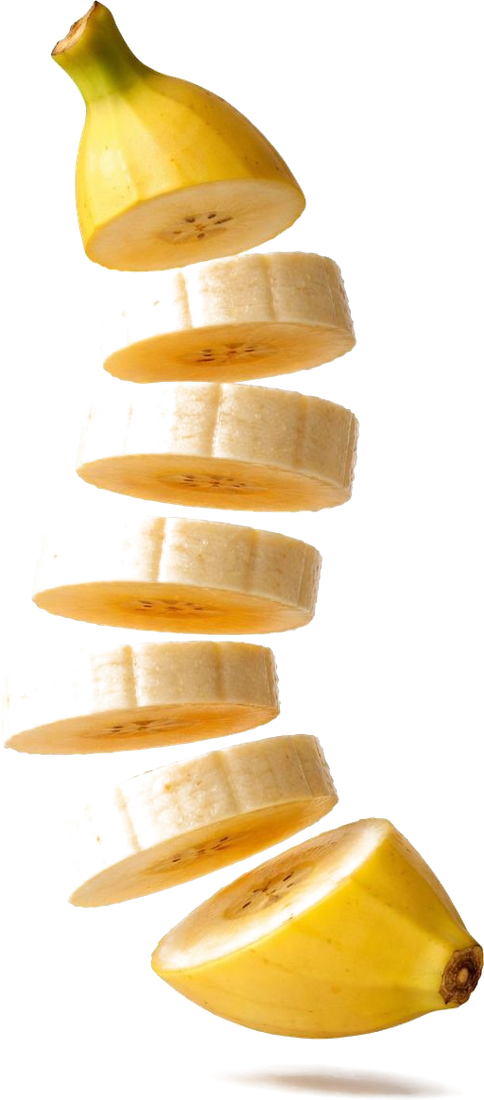
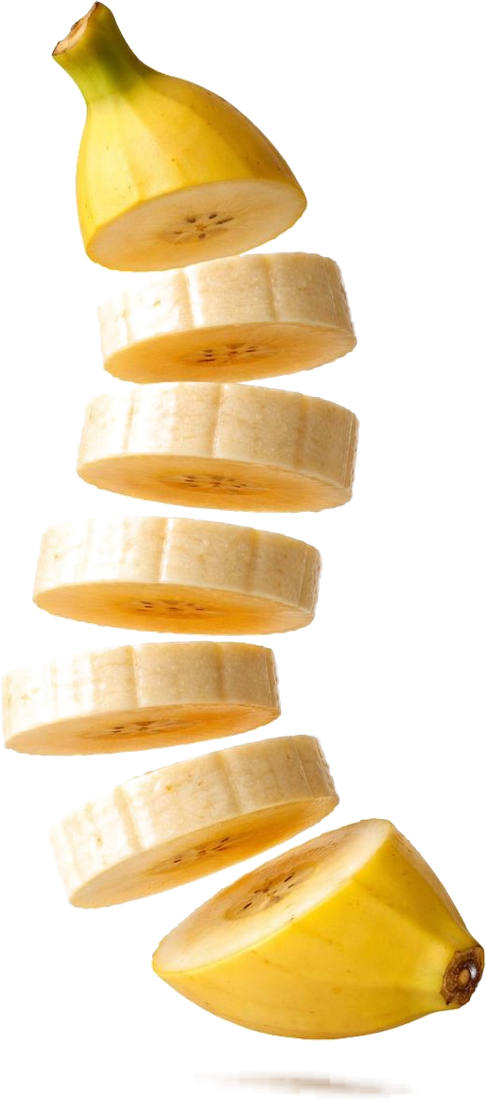
Produits: clean cut-outs + glow-behind for hard-to-key fruits
- Banane & citron jaune: re-detoured by desaturation key (saturated
  fruit kept, white/grey background + shadow removed) + HD badge wiped
- Melon: cropped to the slice-explosion on black, then keyed — no more
  table/hand/watermark
- Papaye & pasteque: keyed despite subject≈background, then hidden the
  residual halo with a radial glow (sampled photo bg colour) behind the
  fruit, so text stays on the dark section. All 7 new photos now used.

diff --git a/src/pages/Produits.jsx b/src/pages/Produits.jsx
@@ -1,6 +1,5 @@
 import { useEffect, useRef } from "react";
 import Lenis from "lenis";
-import IMAGES from "../images";
 
 // ============================================================
 //  PRODUITS — « La Collection »
@@ -38,7 +37,7 @@ const SECTIONS = [
     meta: { "Origine": "Afrique tropicale", "Disponibilité": "Toute l'année", "Standard": "Export Premium" },
   },
   {
-    type: "product", id: "papaye", side: "right", bg: "#7A3514",
+    type: "product", id: "papaye", side: "right", bg: "#7A3514", glow: "#FFC641",
     png: "/png/prod-papaye.png", collection: "SIGNATURE", num: "04", name: "Papaye",
     desc: "Chair orangée et fondante, douceur tropicale. Une fraîcheur solaire à chaque tranche.",
     meta: { "Origine": "Afrique tropicale", "Disponibilité": "Toute l'année", "Standard": "Export Premium" },
@@ -53,12 +52,12 @@ const SECTIONS = [
   // ── Saison ──
   {
     type: "product", id: "melon", side: "right", bg: "#5E5226",
-    png: IMAGES.melonJaune, collection: "SAISON", num: "06", name: "Melon",
+    png: "/png/prod-melon.png", collection: "SAISON", num: "06", name: "Melon",
     desc: "Parfum délicat, chair fondante et sucrée. La gourmandise de la pleine saison.",
     meta: { "Origine": "Afrique tropicale", "Disponibilité": "Saison", "Standard": "Export Premium" },
   },
   {
-    type: "product", id: "pasteque", side: "left", bg: "#5A2630",
+    type: "product", id: "pasteque", side: "left", bg: "#5A2630", glow: "#DA5652",
     png: "/png/prod-pasteque.png", collection: "SAISON", num: "07", name: "Pastèque",
     desc: "Désaltérante, rouge éclatante et croquante. L'essence rafraîchissante de l'été.",
     meta: { "Origine": "Afrique tropicale", "Disponibilité": "Saison", "Standard": "Export Premium" },
@@ -246,24 +245,26 @@ export default function Produits() {
             >
               {/* Fruit détouré flottant (dépasse du cadre, ombre douce) */}
               <div className="prod-photo">
-                {s.png ? (
-                  <img
-                    src={s.png}
-                    alt={s.name}
-                    className="prod-float"
-                    style={{
-                      width: "112%", maxWidth: "112%", maxHeight: "100%",
-                      objectFit: "contain",
-                      filter: "drop-shadow(0 36px 46px rgba(0,0,0,0.48))",
-                      animationDelay: `${(i % 3) * -1.6}s`,
-                    }}
-                  />
-                ) : (
-                  // Piment vert : placeholder (pas de PNG détouré) — à remplacer
-                  <div style={{ width: "100%", height: "100%", borderRadius: 10, overflow: "hidden", boxShadow: "0 30px 80px rgba(0,0,0,0.45), inset 0 0 0 1px rgba(255,255,255,0.08)" }}>
-                    <img src={s.photo} alt={s.name} style={{ width: "100%", height: "100%", objectFit: "cover" }} />
-                  </div>
+                {/* Halo lumineux (couleur du fond photo) → masque le halo de détourage */}
+                {s.glow && (
+                  <div aria-hidden="true" style={{
+                    position: "absolute", inset: "2% 4%", zIndex: 0, pointerEvents: "none",
+                    background: `radial-gradient(closest-side, ${s.glow}E6 0%, ${s.glow}99 44%, ${s.glow}00 78%)`,
+                    filter: "blur(6px)",
+                  }} />
                 )}
+                <img
+                  src={s.png}
+                  alt={s.name}
+                  className="prod-float"
+                  style={{
+                    position: "relative", zIndex: 1,
+                    width: "112%", maxWidth: "112%", maxHeight: "100%",
+                    objectFit: "contain",
+                    filter: "drop-shadow(0 36px 46px rgba(0,0,0,0.48))",
+                    animationDelay: `${(i % 3) * -1.6}s`,
+                  }}
+                />
               </div>
 
               {/* Texte éditorial */}
